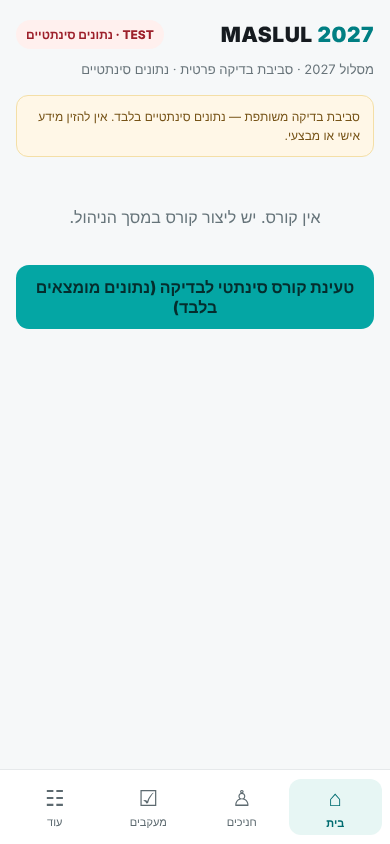
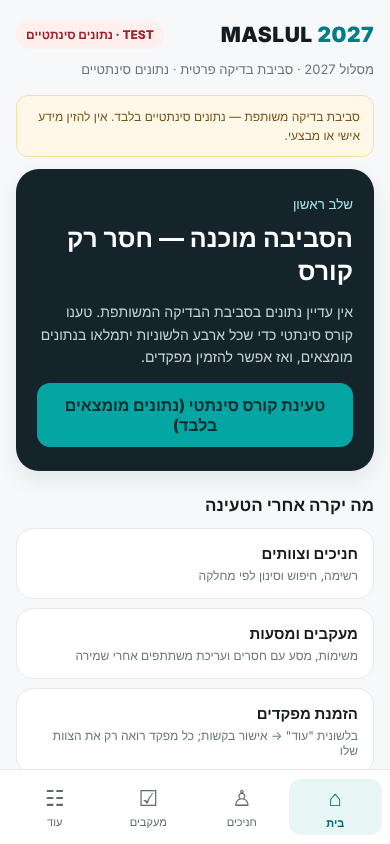
feat(ui): home empty state = guided first step (admin: load synthetic course; others: clear waiting state), no blank shell
Claude-Session: https://claude.ai/code/session_017eset9bmUf3QEmYNysLJAD

diff --git a/preview/index.html b/preview/index.html
@@ -1193,8 +1193,10 @@ dialog.sheet{max-height:92vh;overflow:auto}
     if (curKey) scrollMem[curKey] = window.scrollY;
     navPop = !!(history.state && history.state.mv); try { history.replaceState({ mv: ++navSeq }, ''); } catch (e) {}
     var r = (location.hash || '#/home').replace(/^#\//, ''), top = $('#ctx'); if (top) top.textContent = ctxLine();
-    if (!S.course) { var emp = [h('div', { class: 'empty', text: 'אין קורס. יש ליצור קורס במסך הניהול.' })];
-      if (C.cf && isAdmin()) emp.push(h('button', { class: 'primary', id: 'seedBtn', type: 'button', text: 'טעינת קורס סינתטי לבדיקה (נתונים מומצאים בלבד)', onclick: function () { this.disabled = true; api('gw:seed', {}).then(function (x) { if (!x.ok) { toast(msgOf(x), 'err'); return; } toast('הקורס הסינתטי נטען'); location.reload(); }); } }));
+    if (!S.course) { var adm = C.cf && isAdmin(), emp = [h('div', { class: 'hero' }, [h('small', { text: adm ? 'שלב ראשון' : 'ממתינים להגדרה' }), h('h1', { text: adm ? 'הסביבה מוכנה — חסר רק קורס' : 'עדיין אין קורס זמין עבורכם' }),
+        h('p', { id: 'heroWhy', text: adm ? 'אין עדיין נתונים בסביבת הבדיקה המשותפת. טענו קורס סינתטי כדי שכל ארבע הלשוניות יתמלאו בנתונים מומצאים, ואז אפשר להזמין מפקדים.' : 'החשבון שלכם פעיל, אך המנהל טרם שייך אתכם לקורס. פנו אליו; לא נדרשת פעולה נוספת מצדכם.' })])];
+      if (adm) { emp[0].append(h('button', { class: 'primary', id: 'seedBtn', type: 'button', text: 'טעינת קורס סינתטי (נתונים מומצאים בלבד)', onclick: function () { this.disabled = true; this.setAttribute('aria-busy', 'true'); var b = this; api('gw:seed', {}).then(function (x) { if (!x.ok) { b.disabled = false; b.removeAttribute('aria-busy'); toast(msgOf(x), 'err'); return; } toast('הקורס הסינתטי נטען'); location.reload(); }); } }));
+        emp.push(sectionHead('מה יקרה אחרי הטעינה', null), card('חניכים וצוותים', 'רשימה, חיפוש וסינון לפי מחלקה', null), card('מעקבים ומסעות', 'משימות, מסע עם חסרים ועריכת משתתפים אחרי שמירה', null), card('הזמנת מפקדים', 'בלשונית "עוד" → אישור בקשות; כל מפקד רואה רק את הצוות שלו', null)); }
       mount('home', emp); return; }
     var m = /^soldier\/(.+)$/.exec(r); if (m) return SoldierCard(m[1]); var dm = /^d\/([a-z]+)(?:\/(\d+))?$/.exec(r); if (dm) return dm[2] === undefined ? Domain(dm[1]) : DomainForm(dm[1], +dm[2]); (ROUTES[r] || Home)();
   }

diff --git a/native/app.js b/native/app.js
@@ -353,8 +353,10 @@
     if (curKey) scrollMem[curKey] = window.scrollY;
     navPop = !!(history.state && history.state.mv); try { history.replaceState({ mv: ++navSeq }, ''); } catch (e) {}
     var r = (location.hash || '#/home').replace(/^#\//, ''), top = $('#ctx'); if (top) top.textContent = ctxLine();
-    if (!S.course) { var emp = [h('div', { class: 'empty', text: 'אין קורס. יש ליצור קורס במסך הניהול.' })];
-      if (C.cf && isAdmin()) emp.push(h('button', { class: 'primary', id: 'seedBtn', type: 'button', text: 'טעינת קורס סינתטי לבדיקה (נתונים מומצאים בלבד)', onclick: function () { this.disabled = true; api('gw:seed', {}).then(function (x) { if (!x.ok) { toast(msgOf(x), 'err'); return; } toast('הקורס הסינתטי נטען'); location.reload(); }); } }));
+    if (!S.course) { var adm = C.cf && isAdmin(), emp = [h('div', { class: 'hero' }, [h('small', { text: adm ? 'שלב ראשון' : 'ממתינים להגדרה' }), h('h1', { text: adm ? 'הסביבה מוכנה — חסר רק קורס' : 'עדיין אין קורס זמין עבורכם' }),
+        h('p', { id: 'heroWhy', text: adm ? 'אין עדיין נתונים בסביבת הבדיקה המשותפת. טענו קורס סינתטי כדי שכל ארבע הלשוניות יתמלאו בנתונים מומצאים, ואז אפשר להזמין מפקדים.' : 'החשבון שלכם פעיל, אך המנהל טרם שייך אתכם לקורס. פנו אליו; לא נדרשת פעולה נוספת מצדכם.' })])];
+      if (adm) { emp[0].append(h('button', { class: 'primary', id: 'seedBtn', type: 'button', text: 'טעינת קורס סינתטי (נתונים מומצאים בלבד)', onclick: function () { this.disabled = true; this.setAttribute('aria-busy', 'true'); var b = this; api('gw:seed', {}).then(function (x) { if (!x.ok) { b.disabled = false; b.removeAttribute('aria-busy'); toast(msgOf(x), 'err'); return; } toast('הקורס הסינתטי נטען'); location.reload(); }); } }));
+        emp.push(sectionHead('מה יקרה אחרי הטעינה', null), card('חניכים וצוותים', 'רשימה, חיפוש וסינון לפי מחלקה', null), card('מעקבים ומסעות', 'משימות, מסע עם חסרים ועריכת משתתפים אחרי שמירה', null), card('הזמנת מפקדים', 'בלשונית "עוד" → אישור בקשות; כל מפקד רואה רק את הצוות שלו', null)); }
       mount('home', emp); return; }
     var m = /^soldier\/(.+)$/.exec(r); if (m) return SoldierCard(m[1]); var dm = /^d\/([a-z]+)(?:\/(\d+))?$/.exec(r); if (dm) return dm[2] === undefined ? Domain(dm[1]) : DomainForm(dm[1], +dm[2]); (ROUTES[r] || Home)();
   }
